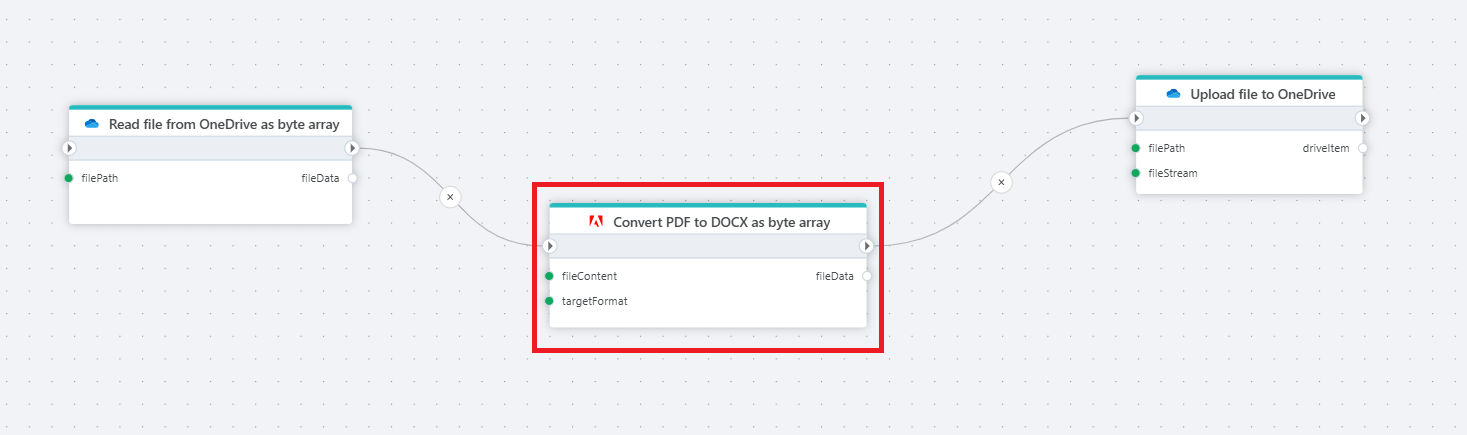
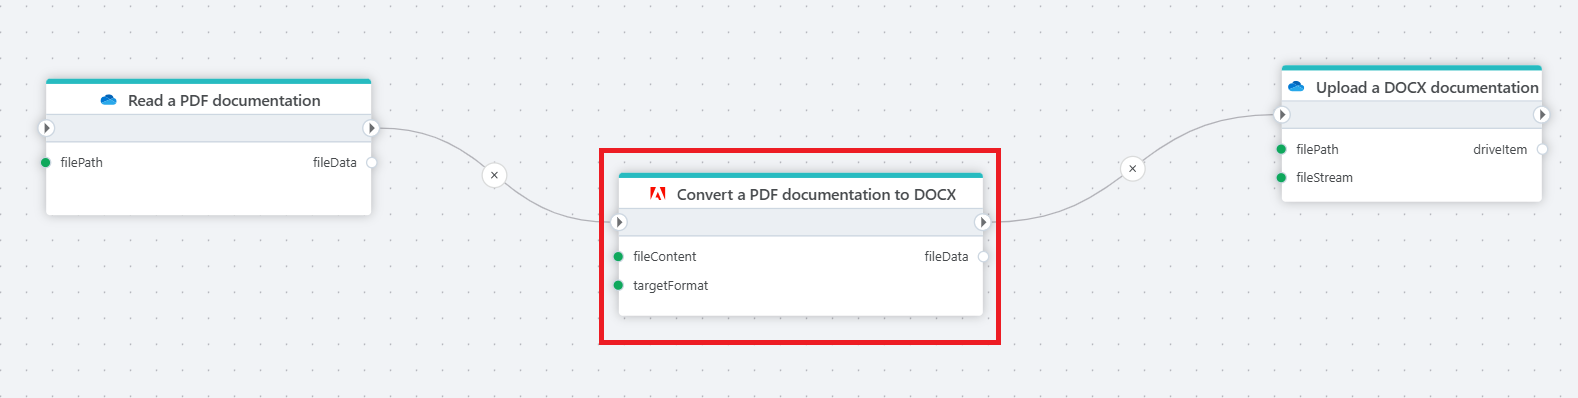
nonPDF to PDF

diff --git a/articles/flow/actions/adobe/non-pdf-to-pdf-as-byte-array.md b/articles/flow/actions/adobe/non-pdf-to-pdf-as-byte-array.md
@@ -1,3 +1,26 @@
 # Convert a non-PDF file to a PDF file as byte array
 
 Converts a non-PDF file on a source format to PDF and returns it as a byte array.
+
+
+![img](../../../../images/flow/convertOthertoPDF.png)
+
+**Example** ![img](../../../../images/strz.jpg)  
+This flow takes a  documentation file (in DOCX format) from [OneDrive](../onedrive/read-file-from-onedrive-as-byte-array.md), sends it to the [Adobe PDF Services](https://opensource.adobe.com/pdftools-sdk-docs/release/latest/index.html) as a byte array, where it is converted into a PDF format, and then [uploads](../onedrive/upload-file-to-onedrive.md) it to the selected folder in OneDrive.
+
+
+
+## Properties
+
+| Name                   | Type     | Description                                                                                                                                                     |
+|------------------------|----------|-----------------------------------------------------------------------------------------------------------------------------------------------------------------|
+| Connection         | Required | The connection to the [Adobe PDF Services](https://opensource.adobe.com/pdftools-sdk-docs/release/latest/index.html).                                          |
+| Source format      | Required | The format from which the PDF will be converted. Available formats are DOC, DOCX, PPTX, RTF and XLSX.                                                                              |
+| File contents      | Required | The input file data as a byte array.      |
+| Result variable name | Optional | The name of the variable in which the resulting file (converted document) will be stored. This variable can be used in subsequent steps of the flow.            |
+| Description        | Optional | A user-defined description for the action, helpful for documentation or identifying the step's purpose within a larger flow.     |
+
+
+## Returns
+
+Returns a file in the chosen format as a [Byte](https://learn.microsoft.com/en-us/dotnet/api/system.byte) [array](https://learn.microsoft.com/en-us/dotnet/csharp/language-reference/builtin-types/arrays).

diff --git a/articles/flow/actions/adobe/non-pdf-to-pdf-as-stream.md b/articles/flow/actions/adobe/non-pdf-to-pdf-as-stream.md
@@ -1,3 +1,24 @@
 # Convert a non-PDF file to a PDF file as stream
 
 Converts a non-PDF file on a source format to PDF and returns it as a stream.
+
+![img](../../../../images/flow/convertOthertoPDF2.png)
+
+**Example** ![img](../../../../images/strz.jpg)  
+This flow takes a documentation file (in DOCX format) from [OneDrive](../onedrive/read-file-from-onedrive-as-stream.md), sends it to the [Adobe PDF Services](https://opensource.adobe.com/pdftools-sdk-docs/release/latest/index.html) as stream, where it is converted into a PDF format, and then [uploads](../onedrive/upload-file-to-onedrive.md) it to the selected folder in OneDrive.
+
+
+
+## Properties
+
+| Name                   | Type     | Description                                                                                                                                                     |
+|------------------------|----------|-----------------------------------------------------------------------------------------------------------------------------------------------------------------|
+| Connection         | Required | The connection to the [Adobe PDF Services](https://opensource.adobe.com/pdftools-sdk-docs/release/latest/index.html).                                          |
+| Source format      | Required | The format from which the PDF will be converted. Available formats are DOC, DOCX, PPTX, RTF and XLSX.                                                                              |
+| File contents      | Required | The input file data as stream.      |
+| Result variable name | Optional | The name of the variable in which the resulting file (converted document) will be stored. This variable can be used in subsequent steps of the flow.            |
+| Description        | Optional | A user-defined description for the action, helpful for documentation or identifying the step's purpose within a larger flow.     |
+
+## Returns
+
+Returns a file in the chosen format as a [Stream](https://learn.microsoft.com/en-us/dotnet/api/system.io.stream).

diff --git a/articles/flow/actions/adobe/pdf-to-non-pdf-as-byte-array.md b/articles/flow/actions/adobe/pdf-to-non-pdf-as-byte-array.md
@@ -5,7 +5,7 @@ Converts a PDF file to a target format and returns it as a byte array.
 ![img](../../../../images/flow/convertPDFtoOther.png)
 
 **Example** ![img](../../../../images/strz.jpg)  
-This flow takes a PDF file from [OneDrive](../onedrive/read-file-from-onedrive-as-byte-array.md), sends it to the [Adobe PDF Services](https://opensource.adobe.com/pdftools-sdk-docs/release/latest/index.html) as a byte array, where it is converted into a DOCX format, and then [uploads](../onedrive/upload-file-to-onedrive.md) it to the selected folder in OneDrive.
+This flow takes documentation in a PDF file from [OneDrive](../onedrive/read-file-from-onedrive-as-byte-array.md), sends it to the [Adobe PDF Services](https://opensource.adobe.com/pdftools-sdk-docs/release/latest/index.html) as a byte array, where it is converted into a DOCX format, and then [uploads](../onedrive/upload-file-to-onedrive.md) it to the selected folder in OneDrive.
 
 
 
@@ -22,4 +22,4 @@ This flow takes a PDF file from [OneDrive](../onedrive/read-file-from-onedrive-a
 
 ## Returns
 
-Returns a file on the chosen format as a  [Byte](https://learn.microsoft.com/en-us/dotnet/api/system.byte) [array](https://learn.microsoft.com/en-us/dotnet/csharp/language-reference/builtin-types/arrays).
+Returns a file in the chosen format as a [Byte](https://learn.microsoft.com/en-us/dotnet/api/system.byte) [array](https://learn.microsoft.com/en-us/dotnet/csharp/language-reference/builtin-types/arrays).

diff --git a/articles/flow/actions/adobe/pdf-to-non-pdf-as-stream.md b/articles/flow/actions/adobe/pdf-to-non-pdf-as-stream.md
@@ -5,7 +5,7 @@ Converts a PDF file to a target format and returns it as a stream.
 ![img](../../../../images/flow/convertPDFtoOther2.png)
 
 **Example** ![img](../../../../images/strz.jpg)  
-This flow takes a PDF file from [OneDrive](../onedrive/read-file-from-onedrive-as-stream.md), sends it to the [Adobe PDF Services](https://opensource.adobe.com/pdftools-sdk-docs/release/latest/index.html) as stream, where it is converted into a DOCX format, and then [uploads](../onedrive/upload-file-to-onedrive.md) it to the selected folder in OneDrive.
+This flow takes documentation in a PDF file from [OneDrive](../onedrive/read-file-from-onedrive-as-stream.md), sends it to the [Adobe PDF Services](https://opensource.adobe.com/pdftools-sdk-docs/release/latest/index.html) as stream, where it is converted into a DOCX format, and then [uploads](../onedrive/upload-file-to-onedrive.md) it to the selected folder in OneDrive.
 
 
 
@@ -21,4 +21,4 @@ This flow takes a PDF file from [OneDrive](../onedrive/read-file-from-onedrive-a
 
 ## Returns
 
-Returns a file on the chosen format as a  [Stream](https://learn.microsoft.com/en-us/dotnet/api/system.io.stream).
+Returns a file in the chosen format as a [Stream](https://learn.microsoft.com/en-us/dotnet/api/system.io.stream).
